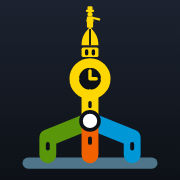
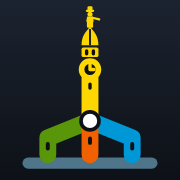
Slim the tower clock to just wider than the shaft
The clock face shrinks from 14.6 to 8 units across, the smallest that
still reads as a clock at the header's 44px. At that size the hour
ticks are dropped and the hands are lengthened. The clock's top edge
stays put, so the shaft below it grows taller, closer to City Hall's
proportions. PNGs regenerated.

Claude-Session: https://claude.ai/code/session_01SDaXcSV7PRVGm2Rk6dKjyn

Changed region(s): [[0.3611, 0.3056, 0.6389, 0.5556], [0.4722, 0.5556, 0.5278, 0.6111]]

diff --git a/scripts/og-template.html b/scripts/og-template.html
@@ -196,15 +196,14 @@
                 <rect x="46.3" y="50.5" width="1.4" height="3" rx=".7" />
               </g>
               <!-- The tower shaft, one yellow line up to the clock -->
-              <path d="M32 41V34.3" stroke="#FFD700" stroke-width="6" stroke-linecap="round" />
-              <rect x="31.4" y="35.9" width="1.2" height="2.6" rx=".6" fill="#0d1117" />
+              <path d="M32 41V27.7" stroke="#FFD700" stroke-width="6" stroke-linecap="round" />
+              <rect x="31.4" y="29.3" width="1.2" height="2.6" rx=".6" fill="#0d1117" />
               <!-- Interchange: a station dot where the four lines meet -->
               <circle cx="32" cy="43" r="3.2" fill="#fff" stroke="#0d1117" stroke-width="1.3" />
               <!-- Clock face -->
-              <circle cx="32" cy="28" r="5.6" fill="#0d1117" stroke="#FFD700" stroke-width="3.4" />
+              <circle cx="32" cy="24.7" r="3" fill="#0d1117" stroke="#FFD700" stroke-width="2" />
               <g stroke="#FFD700" stroke-linecap="round">
-                <path d="M32 22.9v.9M37.1 28h-.9M32 33.1v-.9M26.9 28h.9" stroke-width=".9" />
-                <path d="M32 28v-2.8M32 28h2.2" stroke-width="1.2" />
+                <path d="M32 24.7v-1.8M32 24.7h1.4" stroke-width="1.2" />
               </g>
               <!-- Drum with arched windows, ribbed dome, lantern -->
               <rect x="29" y="16.9" width="6" height="3.4" rx=".6" fill="#FFD700" />

diff --git a/src/components/BrandMark.jsx b/src/components/BrandMark.jsx
@@ -32,15 +32,14 @@ export default function BrandMark({ className = 'h-8 w-8' }) {
         <rect x="46.3" y="50.5" width="1.4" height="3" rx=".7" />
       </g>
       {/* The tower shaft, one yellow line up to the clock */}
-      <path d="M32 41V34.3" stroke="#FFD700" strokeWidth="6" strokeLinecap="round" />
-      <rect x="31.4" y="35.9" width="1.2" height="2.6" rx=".6" fill="#0d1117" />
+      <path d="M32 41V27.7" stroke="#FFD700" strokeWidth="6" strokeLinecap="round" />
+      <rect x="31.4" y="29.3" width="1.2" height="2.6" rx=".6" fill="#0d1117" />
       {/* Interchange: a station dot where the four lines meet */}
       <circle cx="32" cy="43" r="3.2" fill="#fff" stroke="#0d1117" strokeWidth="1.3" />
       {/* Clock face */}
-      <circle cx="32" cy="28" r="5.6" fill="#0d1117" stroke="#FFD700" strokeWidth="3.4" />
+      <circle cx="32" cy="24.7" r="3" fill="#0d1117" stroke="#FFD700" strokeWidth="2" />
       <g stroke="#FFD700" strokeLinecap="round">
-        <path d="M32 22.9v.9M37.1 28h-.9M32 33.1v-.9M26.9 28h.9" strokeWidth=".9" />
-        <path d="M32 28v-2.8M32 28h2.2" strokeWidth="1.2" />
+        <path d="M32 24.7v-1.8M32 24.7h1.4" strokeWidth="1.2" />
       </g>
       {/* Drum with arched windows, ribbed dome, lantern */}
       <rect x="29" y="16.9" width="6" height="3.4" rx=".6" fill="#FFD700" />
